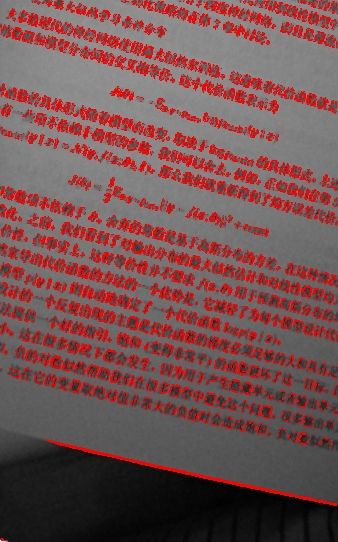
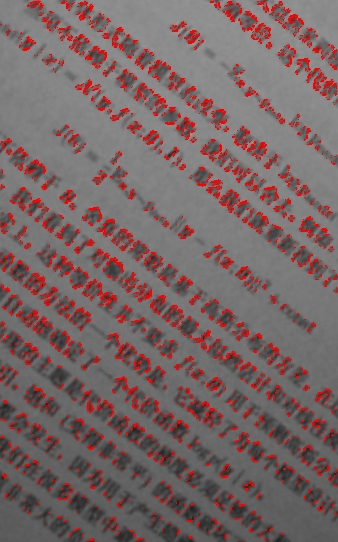
hough变换

diff --git a/JNIModule/ImageProcess/expo.cpp b/JNIModule/ImageProcess/expo.cpp
@@ -36,7 +36,7 @@ int main(){
   long _t = get_timestamp();
   MATRIX_PROC::init_mtrx();//初始化算子矩阵
   VERT_PROC::init_vert();//初始化向量
-  IMG_DATA jpeg_data = input_image("2.jpg");
+  IMG_DATA jpeg_data = input_image("2_.jpg");
 
   //灰度化
   IMG_DATA jpeg_data_gray = IMG::copy_data(jpeg_data);
@@ -58,8 +58,8 @@ int main(){
 
   IMG_DATA feature_m1 = IMG::create(map_data.width,map_data.height);
   MATRIX2 f_m_m1 = map_data.conv(MATRIX_PROC::m1);
-  f_m_m1.filter(MATRIX_PROC::filter1);
-  PROCESSOR::draw_matrix(f_m_m1,feature_m1,MATRIX_PROC::func1);
+  f_m_m1.filter(MATRIX_PROC::filter_words);
+  PROCESSOR::draw_matrix(f_m_m1,feature_m1,MATRIX_PROC::dFunc_words);
   //draw_histogram(f_m_m1,feature_m1);
   output_image("f1.jpg",feature_m1);
 
@@ -72,7 +72,7 @@ int main(){
   {
     f_m_area64 = f_m_m1.conv_scale(MATRIX2(area_size,area_size,1.0f),areas,n);
     n = f_m_area64.width*f_m_area64.height;
-    float max_k = f_m_area64.max();
+    float max_k = f_m_area64.maxf();
     int m=0;
     areas=(MATRIX2_RECT *)malloc(n*sizeof(MATRIX2_RECT));
     IMG::clear(feature_area,IMG_COLOR::BLACK);
@@ -129,7 +129,7 @@ int main(){
 
   IMG_DATA edge_proc = IMG::create(a_width,a_height);
   MATRIX2 a_map_data = map_data.subset(min_x,min_y,a_width,a_height);
-  PROCESSOR::draw_matrix(a_map_data,edge_proc,MATRIX_PROC::func_edge);
+  PROCESSOR::draw_matrix(a_map_data,edge_proc,MATRIX_PROC::dFunc_binary);
   output_image("e1.jpg",edge_proc);
   int dtf_img_size = 128;
   int dtf_size = 128;
@@ -137,19 +137,35 @@ int main(){
   int dtf_offset_y = 0;
   IMG_DATA dtf_img = IMG::create(dtf_img_size,dtf_img_size);
   MATRIX2 dtf_map_data = map_data.subset(min_x+dtf_offset_x,min_y+dtf_offset_y,dtf_img_size,dtf_img_size);
-  PROCESSOR::draw_matrix(dtf_map_data,dtf_img,MATRIX_PROC::func_edge);
+  PROCESSOR::draw_matrix(dtf_map_data,dtf_img,MATRIX_PROC::dFunc_binary);
   output_image("dfto.jpg",dtf_img);
 
   dtf_img = IMG::create(dtf_size,dtf_size);
   dtf_map_data = map_data.subset(min_x+dtf_offset_x,min_y+dtf_offset_y,dtf_img_size,dtf_img_size);
+
+  
   MATRIX2 dtf_data = PROCESSOR::FFT2(dtf_map_data,dtf_size);
-  dtf_data.filter(MATRIX_PROC::filter_DFT);
+  dtf_data.filter(MATRIX_PROC::mapper_DFT);
   //dtf_data.print();
-  float dtf_max = dtf_data.max();
-  std::cout<<dtf_max<<std::endl;
+  float dtf_max = dtf_data.maxf();
   dtf_data.mul(1.0f/dtf_max*255.0f);
-  PROCESSOR::draw_DFT(dtf_data,dtf_img);
+  PROCESSOR::draw_matrix(dtf_data,dtf_img,MATRIX_PROC::dFunc_gray);
   output_image("dft.jpg",dtf_img);
+
+  dtf_data.filter(MATRIX_PROC::filter_DFT);  
+  PROCESSOR::draw_matrix(dtf_data,dtf_img,MATRIX_PROC::dFunc_binary);
+  output_image("dft2.jpg",dtf_img);
+
+  int hough_stepsThelta = 256;
+  int hough_stepsLength = 256;
+  IMG_DATA hough_img = IMG::create(hough_stepsThelta,hough_stepsLength);
+  MATRIX2 hough_map = PROCESSOR::houghLineTrans(dtf_data,hough_stepsThelta,hough_stepsLength);
+  MATRIX2_INDEXF hough_max = hough_map.max();
+
+  std::cout<<hough_max.value<<":"<<hough_max.x<<","<<hough_max.y<<std::endl;
+  hough_map.mul(1.0f/hough_max.value*255.0f);
+  PROCESSOR::draw_matrix(hough_map,hough_img,MATRIX_PROC::dFunc_gray);
+  output_image("hough.jpg",hough_img);
   //MATRIX2 a_map_verts = PROCESSOR::vert_mark(a_map_data,7,VERT_PROC::direct_verts,VERT_PROC::direct_verts_r,VERT_PROC::n_theta);
 
   //PROCESSOR::draw_verts(a_map_verts,edge_proc,VERT_PROC::func_vert);

diff --git a/JNIModule/ImageProcess/src/PROCESSOR.cpp b/JNIModule/ImageProcess/src/PROCESSOR.cpp
@@ -374,19 +374,49 @@ MATRIX2 PROCESSOR::DFT(MATRIX2 matrix,int size)
   return rec.to_float();
 }
 
-void PROCESSOR::draw_DFT(MATRIX2 matrix,IMG_DATA image_data_out)
+float houghLineTranser(float x,float y,float thelta)
 {
+  return y*sinf(thelta)+x*cosf(thelta);
+}
+
+MATRIX2 PROCESSOR::houghLineTrans(MATRIX2 matrix,int theltaStep,int lengthStep)
+{
+  float max_length = sqrtf(matrix.height*matrix.height + matrix.width*matrix.width);
+  float max_thelta = M_PI;
+  float dl = max_length/lengthStep;
+  float dt = max_thelta/theltaStep;
+  MATRIX2 re(theltaStep,lengthStep);
   for(int i=0;i<matrix.height;i++)
   {
     for(int j=0;j<matrix.width;j++)
     {
-      unsigned char gray = (unsigned char)matrix.get(j,i);
-      //std::cout<<gray<<std::endl;
-      unsigned char color[] = {gray,gray,gray};
-      IMG::set_rgb(image_data_out,j,i,color);
+      float value = matrix.get(j,i);
+      if(value>0)
+      {
+        float thelta = 0;
+        for(int k=0;k<theltaStep;k++)
+        {
+          float r = houghLineTranser(j,i,thelta);
+          if(r>dl)
+          {
+            int indexR = (r/dl);
+            //if(abs(indexR)<lengthStep)
+            {
+              //if(indexR<0)indexR+=lengthStep;
+              re.set(k,indexR,re.get(k,indexR)+10.0f*value/255);
+            }
+            
+          }
+          
+          thelta+=dt;
+        }
+      }
     }
   }
+  return re;
 }
+
+
 /*void PROCESSOR::Blur(IMG_DATA image_data,IMG_DATA image_data_out,int r){
   
 }*/

diff --git a/JNIModule/ImageProcess/expo.h b/JNIModule/ImageProcess/expo.h
@@ -54,7 +54,7 @@ namespace MATRIX_PROC{
 
     std::cout<<"Init Matrix Completed."<<std::endl;
   }
-  unsigned char* func1(int x,int y,float value)
+  unsigned char* dFunc_words(int x,int y,float value)
   {
     if(value > 0.0f)
     {
@@ -65,7 +65,7 @@ namespace MATRIX_PROC{
     }
   }
 
-  unsigned char* func_edge(int x,int y,float value)
+  unsigned char* dFunc_binary(int x,int y,float value)
   {
     if(value > 0.0f)
     {
@@ -76,7 +76,7 @@ namespace MATRIX_PROC{
     }
   }
 
-  unsigned char* func_dtf(int x,int y,float value)
+  unsigned char* dFunc_gray(int x,int y,float value)
   {
     unsigned char gray = (unsigned char)value;
 
@@ -87,7 +87,7 @@ namespace MATRIX_PROC{
     return color;
   }
 
-  float filter1(int x,int y,float value)
+  float filter_words(int x,int y,float value)
   {
     if(value > 3.0f)
     {
@@ -98,9 +98,15 @@ namespace MATRIX_PROC{
     }
   }
 
+  float mapper_DFT(int x,int y,float value)
+  {
+    float k = (abs(value)+1);
+    return k;
+  }
+
   float filter_DFT(int x,int y,float value)
   {
-    return sqrtf(abs(value)+1);
+    return (value<60)?0:255;
   }
 }
 

diff --git a/JNIModule/ImageProcess/src/MATRIX.cpp b/JNIModule/ImageProcess/src/MATRIX.cpp
@@ -240,7 +240,7 @@ float MATRIX2::min()
   return min;
 }
 
-float MATRIX2::max()
+float MATRIX2::maxf()
 {
   float max = FLT_MIN;
   int n = this->width*this->height;
@@ -253,6 +253,27 @@ float MATRIX2::max()
     }
   }
   return max;
+}
+
+MATRIX2_INDEXF MATRIX2::max()
+{
+  MATRIX2_INDEXF index;
+  index.value = FLT_MIN;
+  int n = this->width*this->height;
+  for(int i=0;i<this->height;i++)
+  {
+    for(int j=0;j<this->width;j++)
+    {
+      float v = this->get(j,i);
+      if(v>index.value)
+      {
+        index.x=j;
+        index.y=i;
+        index.value = v;
+      }
+    }
+  }
+  return index;
 }
 
 float MATRIX2::average()

diff --git a/JNIModule/ImageProcess/include/MATRIX.h b/JNIModule/ImageProcess/include/MATRIX.h
@@ -23,6 +23,13 @@ struct MATRIX2_RECT
   int flag;
 };
 
+struct MATRIX2_INDEXF
+{
+  int x;
+  int y;
+  float value;
+};
+
 class MATRIX2{
 private:
   float* m_map;
@@ -41,7 +48,8 @@ public:
   void print();
   void filter(float (*filter)(int,int,float));
   void filter(float (*filter)(int,int,float,float*),float* params);
-  float max();
+  float maxf();
+  MATRIX2_INDEXF max(); 
   float min();
   float average();
   void add(float value);

diff --git a/JNIModule/ImageProcess/include/PROCESSOR.h b/JNIModule/ImageProcess/include/PROCESSOR.h
@@ -19,5 +19,6 @@ public:
   static MATRIX2 FFT2(MATRIX2 matrix,int size);
   static MATRIX2 DFT(MATRIX2 matrix,int size);
   static void draw_DFT(MATRIX2 matrix,IMG_DATA image_data_out);
+  static MATRIX2 houghLineTrans(MATRIX2 matrix,int theltaStep,int lengthStep);//Hought Tranform
 };
 #endif
